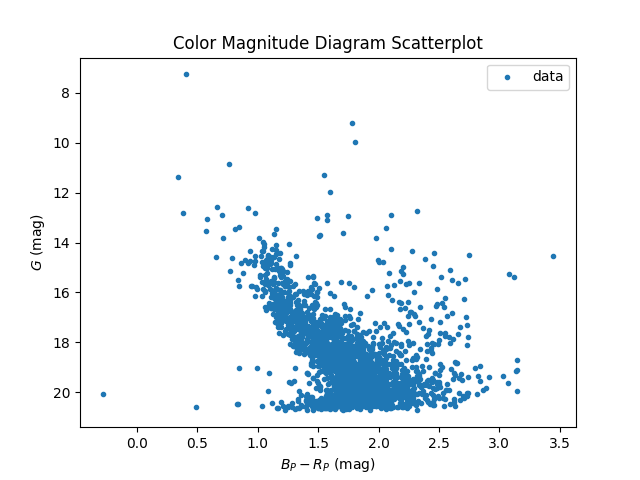
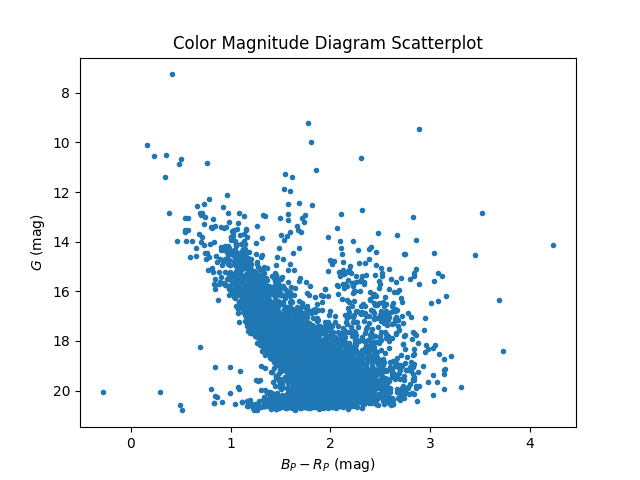
Images and README updated

diff --git a/README.md b/README.md
@@ -6,10 +6,10 @@ This is the Data Science component of the **Astrometric**, **Photometric**, and 
 | :--: | :--: |
 | Right Ascension (α) | 345.67348 |
 | Declination (δ) | 59.55911 |
-| Search Radius | 0.1° |
+| Search Radius | 10' |
 | Database | [GAIA EDR3](https://www.cosmos.esa.int/web/gaia/early-data-release-3) |
 
-There were **2923** data points in [raw_data.csv](https://github.com/RikGhosh487/Open-Cluster-Research/blob/main/raw_data.csv). After dropping the rows with missing fields, there were **2816** data points. After enforcing statistical data reductions on the errors and parallax adjustment for GAIA, there were **2319** data points that get compiled into [reduced.csv](https://github.com/RikGhosh487/Open-Cluster-Research/blob/main/reduced.csv). Additional hardcoded restrictions were imposed on `reduced.csv` to remove obvious outliers from the Vector Point Diagram generated by the data points. The resulting data file had **2285** data points and was compiled into [restricted.csv](https://github.com/RikGhosh487/Open-Cluster-Research/blob/main/restricted.csv). There was a total of **78.173%** of data that was retained from `raw_data.csv`.
+There were **7400** data points in [raw_data.csv](https://github.com/RikGhosh487/Open-Cluster-Research/blob/main/raw_data.csv). After dropping the rows with missing fields, there were **7153** data points. After enforcing statistical data reductions on the errors, there were **5927** data points that get compiled into [reduced.csv](https://github.com/RikGhosh487/Open-Cluster-Research/blob/main/reduced.csv). Additional hardcoded restrictions were imposed on `reduced.csv` to remove obvious outliers from the Vector Point Diagram generated by the data points. The resulting data file had **5816** data points. From that **38.3%** of the data was extracted to perform a *mean-centered* parallax adjustment and was compiled into [restricted.csv](https://github.com/RikGhosh487/Open-Cluster-Research/blob/main/restricted.csv) which contains **2762** data points. There was a total of **37.32%** of data that was retained from `raw_data.csv`.
 
 ## Initial Histograms
 ***NOTE:*** All Margins of Error (M) are calculated using `M = 2 * std / sqrt(N)` where `std` is the standard deviation of the data, and `N` is the number of data points. This information was obtained from [Guide to Computing Margins of Error for Percentages and Means](http://crab.rutgers.edu/~goertzel/marginsoferror.htm)
@@ -18,52 +18,51 @@ There were **2923** data points in [raw_data.csv](https://github.com/RikGhosh487
 ![Right Ascension Histogram](https://github.com/RikGhosh487/Open-Cluster-Research/blob/main/images/matplot/ra.png)
 | Statistics | Value |
 | :--: | :--: |
-| Mean | 345.6741961389084 |
-| Standard Deviation | 0.09752874534049277 |
-| Margin of Error | 0.004080557770191462 |
-| Average | 345.674 ± 0.004 |
+| Mean | 345.6727183876852 |
+| Standard Deviation | 0.1614739709555616 |
+| Margin of Error | 0.00423467731363203 |
+| Average | 345.673 ± 0.004 |
 
 **Declination (δ)**<br />
 ![Declination Histogram](https://github.com/RikGhosh487/Open-Cluster-Research/blob/main/images/matplot/dec.png)
 | Statistics | Value |
 | :--: | :--: |
-| Mean | 59.560271106232854 |
-| Standard Deviation | 0.049565833288027834 |
-| Margin of Error | 0.0020738116280831745 |
+| Mean | 59.560262351711174 |
+| Standard Deviation | 0.08145399594134053 |
+| Margin of Error | 0.0021361423558004713 |
 | Average | 59.560 ± 0.002 |
 
 **Proper Motion in Right Ascension (μα)**<br />
 ![Proper Motion in Right Ascension Histogram](https://github.com/RikGhosh487/Open-Cluster-Research/blob/main/images/matplot/pmra.png)
 | Statistics | Value |
 | :--: | :--: |
-| Mean | -2.256758586451548 |
-| Standard Deviation | 2.622416744179843 |
-| Margin of Error | 0.10972070833869693 |
-| Average | -2.257 ± 0.110 |
+| Mean | -2.3447020430930876 |
+| Standard Deviation | 2.5667736322443595 |
+| Margin of Error | 0.06731399497622685 |
+| Average | -2.345 ± 0.067 |
 
 **Proper Motion in Declination (μδ)**<br />
 ![Proper Motion in Declination Histogram](https://github.com/RikGhosh487/Open-Cluster-Research/blob/main/images/matplot/pmdec.png)
 | Statistics | Value |
 | :--: | :--: |
-| Mean | -1.6124507799916195 |
-| Standard Deviation | 1.8592937223565242 |
-| Margin of Error | 0.07779199270268998 |
-| Average | -1.612 ± 0.078 |
+| Mean | -1.661950652442546 |
+| Standard Deviation | 1.9023582071814351 |
+| Margin of Error | 0.04988960818068901 |
+| Average | -1.662 ± 0.050 |
 
 **Parallax (π)**<br />
 ![Parallax Histogram](https://github.com/RikGhosh487/Open-Cluster-Research/blob/main/images/matplot/parallax.png)
 | Statistics | Value |
 | :--: | :--: |
-| Mean | 0.48761751988505464 |
-| Standard Deviation | 0.44304323085074077 |
-| Margin of Error | 0.018536724653507017 |
-| Average | 0.488 ± 0.019 |
+| Mean | 0.4919773793849082 |
+| Standard Deviation | 0.41721821692260214 |
+| Margin of Error | 0.01094160568158925 |
+| Average | 0.492 ± 0.011 |
 
 ### Packages and Tools
 - [Pandas](https://pandas.pydata.org/) - `v 1.2.4`
 - [NumPy](https://numpy.org/) - `v 1.20.2`
 - [SciPy](https://www.scipy.org/) - `v 1.6.2`
-- [Plotly](https://plotly.com/) - `v 4.14.3`
 - [Matplotlib](https://matplotlib.org) - `v 3.4.2`
 - [Scikit-Learn](https://scikit-learn.org/stable/) - `v 0.24.2`
 
